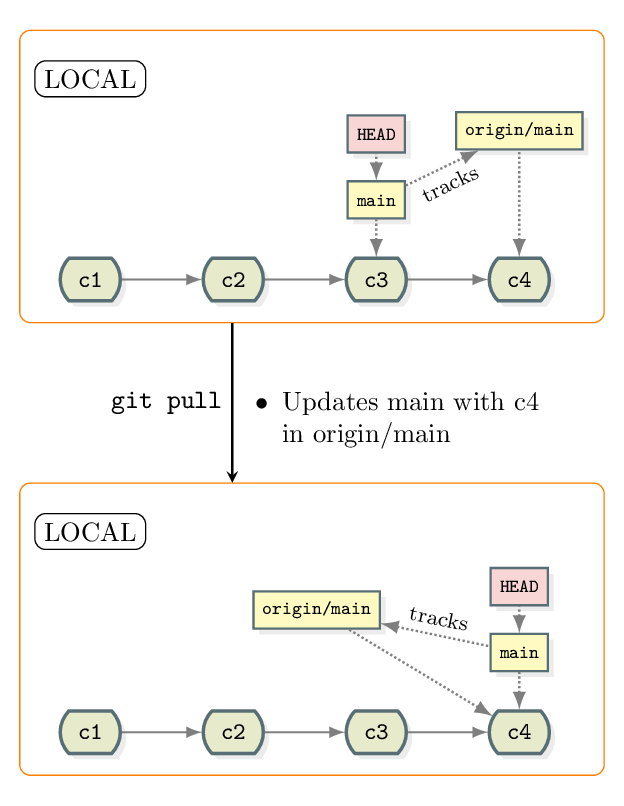
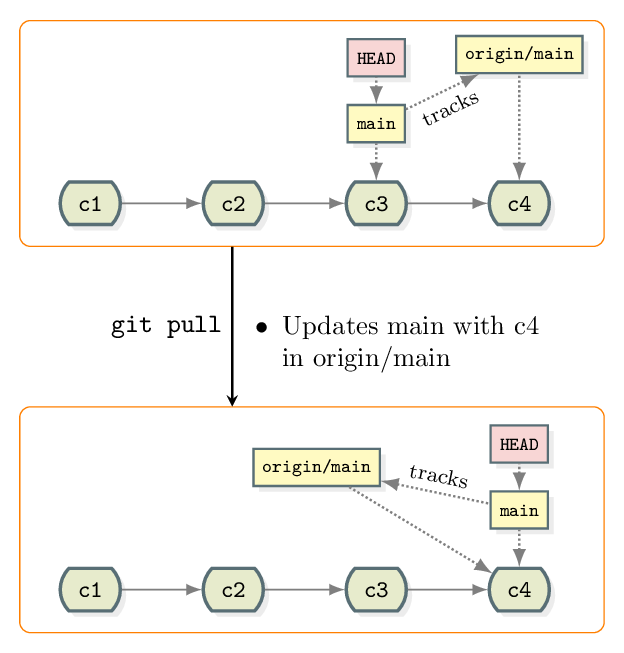
Removed 'local' repository label from pull diagram

diff --git a/episodes/fig/build/pull.tex b/episodes/fig/build/pull.tex
@@ -2,7 +2,7 @@
 
 \usepackage{subcaption}
 \usepackage{gitdags}
-\usepackage[papersize={3.25in, 4.2in}, margin={0.1in, 0.1in}]{geometry}
+\usepackage[papersize={3.25in, 3.4in}, margin={0.1in, 0.1in}]{geometry}
 \usetikzlibrary{arrows,positioning}
 
 \begin{document}
@@ -14,7 +14,7 @@
     \tikzstyle{arrow}=[->, >=stealth, thick]
     \tikzstyle{smalllabel}=[label, black, font=\footnotesize]
 
-    \node (top_container) [container, minimum width=22em, minimum height=11em] {};
+    \node (top_container) [container, minimum width=22em, minimum height=8.5em] {};
     \gitDAG[grow right sep = 3em] {
       c1 [below left=-2.5em and -3.5em of top_container]
       -- c2 [below left=-2.5em and -3.5em of top_container]
@@ -23,14 +23,13 @@
     };
     \gitbranch {main} {above=of c3} {c3}
     \gitHEAD {above=of main} {main}
-    \node[node, above=6em of c1] {LOCAL};
     \gitbranch {origin/main} {above=4em of c4} {c4}
     \draw[DAGrefedge] (origin/main)
     -- node[smalllabel, above, sloped, anchor=north] {tracks} (main);
 
 
     \node (bottom_container) [
-      container, minimum width=22em, minimum height=11em, below=6em of top_container
+      container, minimum width=22em, minimum height=8.5em, below=6em of top_container
     ] {};
     \gitDAG[grow right sep = 3em]{
       c1 [below left=-2.5em and -3.5em of bottom_container]
@@ -44,7 +43,6 @@
 
     \draw[DAGrefedge] (origin/main)
     -- node[smalllabel, above, sloped, anchor=south] {tracks} (main);
-    \node[node, above=6em of c1] {LOCAL};
 
     \draw[arrow] ([shift={(-3em,0)}]top_container.south)
     -- node[anchor=east] {\texttt{git pull}}
@@ -56,6 +54,5 @@
     } ([shift={(-3em,0)}]bottom_container.north);
   \end{tikzpicture}
 \end{figure}
-
 
 \end{document}
